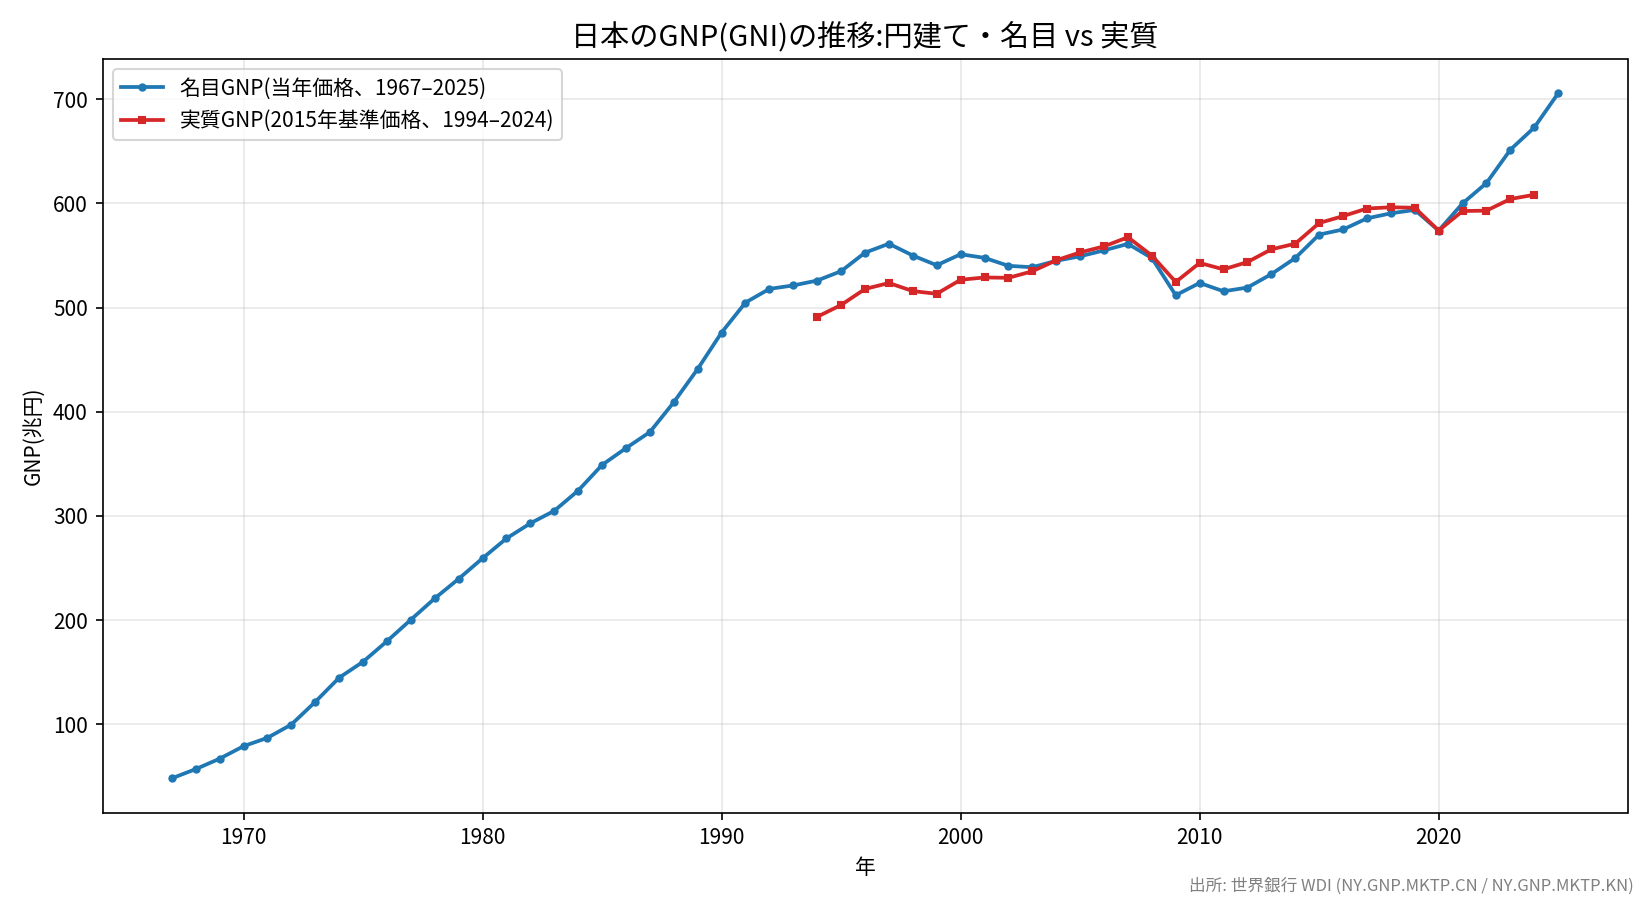
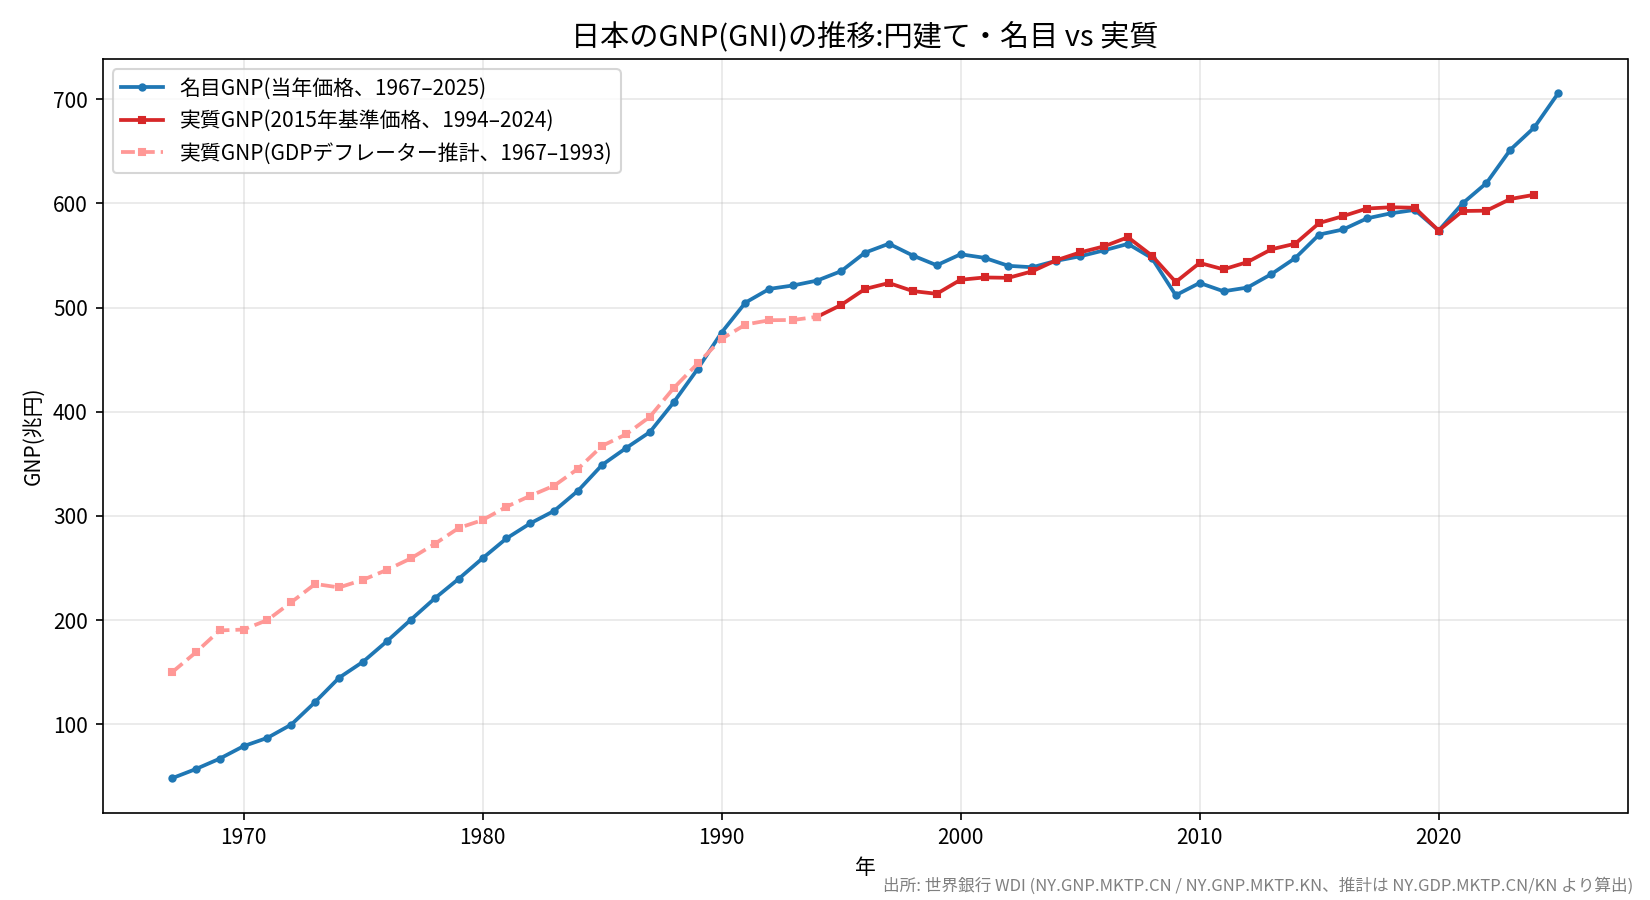
円建て表の実質GNP欠損をGDPデフレーター推計で補完(1967-1993, 2025)

diff --git a/index.html b/index.html
@@ -87,66 +87,66 @@
 
 <h2>円建て(名目・実質)</h2>
 <img src="japan_gnp_yen.png" alt="日本のGNP(円建て・名目 vs 実質)の推移">
-<div class="table-wrap"><table><thead><tr><th>年</th><th>名目GNP(兆円)</th><th>実質GNP(兆円、2015年価格)</th></tr></thead><tbody><tr><td>1967</td><td>48.2</td><td></td></tr>
-<tr><td>1968</td><td>57.1</td><td></td></tr>
-<tr><td>1969</td><td>67.1</td><td></td></tr>
-<tr><td>1970</td><td>79.1</td><td></td></tr>
-<tr><td>1971</td><td>87.1</td><td></td></tr>
-<tr><td>1972</td><td>99.8</td><td></td></tr>
-<tr><td>1973</td><td>121.6</td><td></td></tr>
-<tr><td>1974</td><td>144.8</td><td></td></tr>
-<tr><td>1975</td><td>160.1</td><td></td></tr>
-<tr><td>1976</td><td>179.8</td><td></td></tr>
-<tr><td>1977</td><td>200.4</td><td></td></tr>
-<tr><td>1978</td><td>220.9</td><td></td></tr>
-<tr><td>1979</td><td>239.7</td><td></td></tr>
-<tr><td>1980</td><td>259.4</td><td></td></tr>
-<tr><td>1981</td><td>278.4</td><td></td></tr>
-<tr><td>1982</td><td>292.9</td><td></td></tr>
-<tr><td>1983</td><td>304.9</td><td></td></tr>
-<tr><td>1984</td><td>324.3</td><td></td></tr>
-<tr><td>1985</td><td>349</td><td></td></tr>
-<tr><td>1986</td><td>365.1</td><td></td></tr>
-<tr><td>1987</td><td>380.5</td><td></td></tr>
-<tr><td>1988</td><td>409.1</td><td></td></tr>
-<tr><td>1989</td><td>441.1</td><td></td></tr>
-<tr><td>1990</td><td>476</td><td></td></tr>
-<tr><td>1991</td><td>504.8</td><td></td></tr>
-<tr><td>1992</td><td>517.9</td><td></td></tr>
-<tr><td>1993</td><td>521.2</td><td></td></tr>
-<tr><td>1994</td><td>525.9</td><td>491.1</td></tr>
-<tr><td>1995</td><td>534.9</td><td>502.5</td></tr>
-<tr><td>1996</td><td>552.7</td><td>517.8</td></tr>
-<tr><td>1997</td><td>561.2</td><td>523.6</td></tr>
-<tr><td>1998</td><td>549.9</td><td>515.8</td></tr>
-<tr><td>1999</td><td>540.6</td><td>513.2</td></tr>
-<tr><td>2000</td><td>551.1</td><td>526.7</td></tr>
-<tr><td>2001</td><td>547.7</td><td>528.9</td></tr>
-<tr><td>2002</td><td>540</td><td>528.5</td></tr>
-<tr><td>2003</td><td>538.7</td><td>534.8</td></tr>
-<tr><td>2004</td><td>544.9</td><td>545.4</td></tr>
-<tr><td>2005</td><td>549.2</td><td>552.9</td></tr>
-<tr><td>2006</td><td>554.9</td><td>558.7</td></tr>
-<tr><td>2007</td><td>561.1</td><td>567.5</td></tr>
-<tr><td>2008</td><td>547.5</td><td>549.9</td></tr>
-<tr><td>2009</td><td>511.8</td><td>524.5</td></tr>
-<tr><td>2010</td><td>523.6</td><td>542.8</td></tr>
-<tr><td>2011</td><td>515.6</td><td>536.7</td></tr>
-<tr><td>2012</td><td>519.2</td><td>543.7</td></tr>
-<tr><td>2013</td><td>532.1</td><td>555.9</td></tr>
-<tr><td>2014</td><td>547.5</td><td>561.3</td></tr>
-<tr><td>2015</td><td>570</td><td>581.1</td></tr>
-<tr><td>2016</td><td>574.9</td><td>587.8</td></tr>
-<tr><td>2017</td><td>585.6</td><td>595</td></tr>
-<tr><td>2018</td><td>590.4</td><td>596.2</td></tr>
-<tr><td>2019</td><td>593.7</td><td>595.8</td></tr>
-<tr><td>2020</td><td>573.9</td><td>573.9</td></tr>
-<tr><td>2021</td><td>600</td><td>592.7</td></tr>
-<tr><td>2022</td><td>619.5</td><td>593</td></tr>
-<tr><td>2023</td><td>651.5</td><td>604.2</td></tr>
-<tr><td>2024</td><td>672.8</td><td>608.2</td></tr>
-<tr><td>2025</td><td>705.7</td><td></td></tr></tbody></table></div>
-<p class="note">出所: 世界銀行 WDI (NY.GNP.MKTP.CN / NY.GNP.MKTP.KN)。実質は2015年基準価格 / <a href="japan_gnp_yen.csv">CSVをダウンロード</a></p>
+<div class="table-wrap"><table><thead><tr><th>年</th><th>名目GNP(兆円)</th><th>実質GNP(兆円、2015年価格)</th><th>備考</th></tr></thead><tbody><tr><td>1967</td><td>48.2</td><td>149.8</td><td>推計</td></tr>
+<tr><td>1968</td><td>57.1</td><td>169</td><td>推計</td></tr>
+<tr><td>1969</td><td>67.1</td><td>190.1</td><td>推計</td></tr>
+<tr><td>1970</td><td>79.1</td><td>191</td><td>推計</td></tr>
+<tr><td>1971</td><td>87.1</td><td>200.1</td><td>推計</td></tr>
+<tr><td>1972</td><td>99.8</td><td>217.3</td><td>推計</td></tr>
+<tr><td>1973</td><td>121.6</td><td>234.7</td><td>推計</td></tr>
+<tr><td>1974</td><td>144.8</td><td>231.4</td><td>推計</td></tr>
+<tr><td>1975</td><td>160.1</td><td>238.7</td><td>推計</td></tr>
+<tr><td>1976</td><td>179.8</td><td>248.3</td><td>推計</td></tr>
+<tr><td>1977</td><td>200.4</td><td>259.3</td><td>推計</td></tr>
+<tr><td>1978</td><td>220.9</td><td>273.2</td><td>推計</td></tr>
+<tr><td>1979</td><td>239.7</td><td>288.4</td><td>推計</td></tr>
+<tr><td>1980</td><td>259.4</td><td>296.1</td><td>推計</td></tr>
+<tr><td>1981</td><td>278.4</td><td>308.8</td><td>推計</td></tr>
+<tr><td>1982</td><td>292.9</td><td>319.4</td><td>推計</td></tr>
+<tr><td>1983</td><td>304.9</td><td>329.1</td><td>推計</td></tr>
+<tr><td>1984</td><td>324.3</td><td>345.4</td><td>推計</td></tr>
+<tr><td>1985</td><td>349</td><td>367.3</td><td>推計</td></tr>
+<tr><td>1986</td><td>365.1</td><td>378.3</td><td>推計</td></tr>
+<tr><td>1987</td><td>380.5</td><td>395.2</td><td>推計</td></tr>
+<tr><td>1988</td><td>409.1</td><td>422.8</td><td>推計</td></tr>
+<tr><td>1989</td><td>441.1</td><td>446.3</td><td>推計</td></tr>
+<tr><td>1990</td><td>476</td><td>469.9</td><td>推計</td></tr>
+<tr><td>1991</td><td>504.8</td><td>483.7</td><td>推計</td></tr>
+<tr><td>1992</td><td>517.9</td><td>487.8</td><td>推計</td></tr>
+<tr><td>1993</td><td>521.2</td><td>488.1</td><td>推計</td></tr>
+<tr><td>1994</td><td>525.9</td><td>491.1</td><td></td></tr>
+<tr><td>1995</td><td>534.9</td><td>502.5</td><td></td></tr>
+<tr><td>1996</td><td>552.7</td><td>517.8</td><td></td></tr>
+<tr><td>1997</td><td>561.2</td><td>523.6</td><td></td></tr>
+<tr><td>1998</td><td>549.9</td><td>515.8</td><td></td></tr>
+<tr><td>1999</td><td>540.6</td><td>513.2</td><td></td></tr>
+<tr><td>2000</td><td>551.1</td><td>526.7</td><td></td></tr>
+<tr><td>2001</td><td>547.7</td><td>528.9</td><td></td></tr>
+<tr><td>2002</td><td>540</td><td>528.5</td><td></td></tr>
+<tr><td>2003</td><td>538.7</td><td>534.8</td><td></td></tr>
+<tr><td>2004</td><td>544.9</td><td>545.4</td><td></td></tr>
+<tr><td>2005</td><td>549.2</td><td>552.9</td><td></td></tr>
+<tr><td>2006</td><td>554.9</td><td>558.7</td><td></td></tr>
+<tr><td>2007</td><td>561.1</td><td>567.5</td><td></td></tr>
+<tr><td>2008</td><td>547.5</td><td>549.9</td><td></td></tr>
+<tr><td>2009</td><td>511.8</td><td>524.5</td><td></td></tr>
+<tr><td>2010</td><td>523.6</td><td>542.8</td><td></td></tr>
+<tr><td>2011</td><td>515.6</td><td>536.7</td><td></td></tr>
+<tr><td>2012</td><td>519.2</td><td>543.7</td><td></td></tr>
+<tr><td>2013</td><td>532.1</td><td>555.9</td><td></td></tr>
+<tr><td>2014</td><td>547.5</td><td>561.3</td><td></td></tr>
+<tr><td>2015</td><td>570</td><td>581.1</td><td></td></tr>
+<tr><td>2016</td><td>574.9</td><td>587.8</td><td></td></tr>
+<tr><td>2017</td><td>585.6</td><td>595</td><td></td></tr>
+<tr><td>2018</td><td>590.4</td><td>596.2</td><td></td></tr>
+<tr><td>2019</td><td>593.7</td><td>595.8</td><td></td></tr>
+<tr><td>2020</td><td>573.9</td><td>573.9</td><td></td></tr>
+<tr><td>2021</td><td>600</td><td>592.7</td><td></td></tr>
+<tr><td>2022</td><td>619.5</td><td>593</td><td></td></tr>
+<tr><td>2023</td><td>651.5</td><td>604.2</td><td></td></tr>
+<tr><td>2024</td><td>672.8</td><td>608.2</td><td></td></tr>
+<tr><td>2025</td><td>705.7</td><td>659.8</td><td>推計</td></tr></tbody></table></div>
+<p class="note">出所: 世界銀行 WDI (NY.GNP.MKTP.CN / NY.GNP.MKTP.KN)。実質は2015年基準価格。1967–1993年と2025年の実質はGDPデフレーター(NY.GDP.MKTP.CN/KN)による推計値(備考列に「推計」と記載) / <a href="japan_gnp_yen.csv">CSVをダウンロード</a></p>
 
 <p class="note">AI生成コンテンツを含みます。投資助言ではありません。</p>
 </body>

diff --git a/plot_japan_gnp_yen.py b/plot_japan_gnp_yen.py
@@ -5,15 +5,39 @@ import pandas as pd
 
 plt.rcParams["font.family"] = "Noto Sans CJK JP"
 
-df = pd.read_csv("/tmp/japan_gni_yen.csv")
-nom = df[df["indicator"] == "NY.GNP.MKTP.CN"].sort_values("date")
-real = df[df["indicator"] == "NY.GNP.MKTP.KN"].sort_values("date")
+gni = pd.read_csv("/tmp/japan_gni_yen.csv")
+gdp = pd.read_csv("/tmp/japan_gdp_deflator.csv")
+
+nom = gni[gni["indicator"] == "NY.GNP.MKTP.CN"][["date", "value"]].rename(columns={"value": "nom"})
+real = gni[gni["indicator"] == "NY.GNP.MKTP.KN"][["date", "value"]].rename(columns={"value": "real"})
+gdp_nom = gdp[gdp["indicator"] == "NY.GDP.MKTP.CN"][["date", "value"]].rename(columns={"value": "gdp_nom"})
+gdp_real = gdp[gdp["indicator"] == "NY.GDP.MKTP.KN"][["date", "value"]].rename(columns={"value": "gdp_real"})
+
+df = nom.merge(real, on="date", how="outer").merge(gdp_nom, on="date").merge(gdp_real, on="date")
+df = df.sort_values("date").reset_index(drop=True)
+
+# GDPデフレーターによる実質GNPの推計(実質GNP = 名目GNP / デフレーター)
+df["deflator"] = df["gdp_nom"] / df["gdp_real"]
+df["real_est"] = df["nom"] / df["deflator"]
+
+# 1994年の公式値に接続するよう推計値をスプライス(比率調整)
+splice = df.loc[df["date"] == 1994, "real"].iloc[0] / df.loc[df["date"] == 1994, "real_est"].iloc[0]
+df["real_filled"] = df["real"].fillna(df["real_est"] * splice)
+df["estimated"] = df["real"].isna()
+
+est = df[df["estimated"]]
+off = df[~df["estimated"]]
 
 fig, ax = plt.subplots(figsize=(11, 6))
-ax.plot(nom["date"], nom["value"] / 1e12, marker="o", markersize=3,
+ax.plot(df["date"], df["nom"] / 1e12, marker="o", markersize=3,
         linewidth=1.8, color="#1f77b4", label="名目GNP(当年価格、1967–2025)")
-ax.plot(real["date"], real["value"] / 1e12, marker="s", markersize=3,
+ax.plot(off["date"], off["real"] / 1e12, marker="s", markersize=3,
         linewidth=1.8, color="#d62728", label="実質GNP(2015年基準価格、1994–2024)")
+# 推計区間は公式系列とつながるよう1994年の点も含めて破線で描く(2025年の推計値は線に含めない)
+est_line = pd.concat([est[est["date"] <= 1993], off.head(1)]).sort_values("date")
+ax.plot(est_line["date"], est_line["real_filled"] / 1e12, marker="s", markersize=3,
+        linewidth=1.8, linestyle="--", color="#ff9896",
+        label="実質GNP(GDPデフレーター推計、1967–1993)")
 
 ax.set_title("日本のGNP(GNI)の推移:円建て・名目 vs 実質", fontsize=14)
 ax.set_xlabel("年")
@@ -21,14 +45,18 @@ ax.set_ylabel("GNP(兆円)")
 ax.grid(True, alpha=0.3)
 ax.legend()
 
-fig.text(0.99, 0.01, "出所: 世界銀行 WDI (NY.GNP.MKTP.CN / NY.GNP.MKTP.KN)",
+fig.text(0.99, 0.01, "出所: 世界銀行 WDI (NY.GNP.MKTP.CN / NY.GNP.MKTP.KN、推計は NY.GDP.MKTP.CN/KN より算出)",
          ha="right", fontsize=8, color="gray")
 
 plt.tight_layout()
 plt.savefig("/home/katzkawai/kklab-kimi-samples/japan_gnp_yen.png", dpi=150)
 
-nom_out = pd.DataFrame({"年": nom["date"], "名目GNP(兆円)": (nom["value"] / 1e12).round(1)})
-real_out = pd.DataFrame({"年": real["date"], "実質GNP(兆円、2015年価格)": (real["value"] / 1e12).round(1)})
-merged = pd.merge(nom_out, real_out, on="年", how="outer").sort_values("年")
-merged.to_csv("/home/katzkawai/kklab-kimi-samples/japan_gnp_yen.csv", index=False)
+out = pd.DataFrame({
+    "年": df["date"],
+    "名目GNP(兆円)": (df["nom"] / 1e12).round(1),
+    "実質GNP(兆円、2015年価格)": (df["real_filled"] / 1e12).round(1),
+    "備考": df["estimated"].map({True: "推計", False: ""}),
+})
+out.to_csv("/home/katzkawai/kklab-kimi-samples/japan_gnp_yen.csv", index=False)
+print(out.head(30).to_string(index=False))
 print("saved")

diff --git a/gen_index.py b/gen_index.py
@@ -46,7 +46,7 @@ html = f"""<!DOCTYPE html>
 <h2>円建て(名目・実質)</h2>
 <img src="japan_gnp_yen.png" alt="日本のGNP(円建て・名目 vs 実質)の推移">
 <div class="table-wrap">{table_html(yen)}</div>
-<p class="note">出所: 世界銀行 WDI (NY.GNP.MKTP.CN / NY.GNP.MKTP.KN)。実質は2015年基準価格 / <a href="japan_gnp_yen.csv">CSVをダウンロード</a></p>
+<p class="note">出所: 世界銀行 WDI (NY.GNP.MKTP.CN / NY.GNP.MKTP.KN)。実質は2015年基準価格。1967–1993年と2025年の実質はGDPデフレーター(NY.GDP.MKTP.CN/KN)による推計値(備考列に「推計」と記載) / <a href="japan_gnp_yen.csv">CSVをダウンロード</a></p>
 
 <p class="note">AI生成コンテンツを含みます。投資助言ではありません。</p>
 </body>

diff --git a/README.md b/README.md
@@ -6,7 +6,8 @@
 - **データ出所**: 世界銀行 World Development Indicators (WDI)
   - `NY.GNP.MKTP.CD` — GNI(当年価格・米ドル)
   - `NY.GNP.MKTP.CN` — GNI(当年価格・円)
-  - `NY.GNP.MKTP.KN` — GNI(2015年基準の実質・円、1994年以降のみ公表)
+  - `NY.GNP.MKTP.KN` — GNI(2015年基準の実質・円、1994–2024年のみ公表)
+  - `NY.GDP.MKTP.CN` / `NY.GDP.MKTP.KN` — GDPデフレーター算出用(実質GNP 1967–1993年・2025年の推計に使用)
 
 ## グラフ
 
@@ -49,3 +50,4 @@
 - GitHub Pages として公開
 - README.md を追加(リポジトリ構成・更新履歴)
 - README.md にドル建て・円建てグラフを埋め込み
+- 円建てデータ表の実質GNPの欠損(1967–1993年・2025年)をGDPデフレーターによる推計値で補完し、グラフに推計区間(破線)を追加
